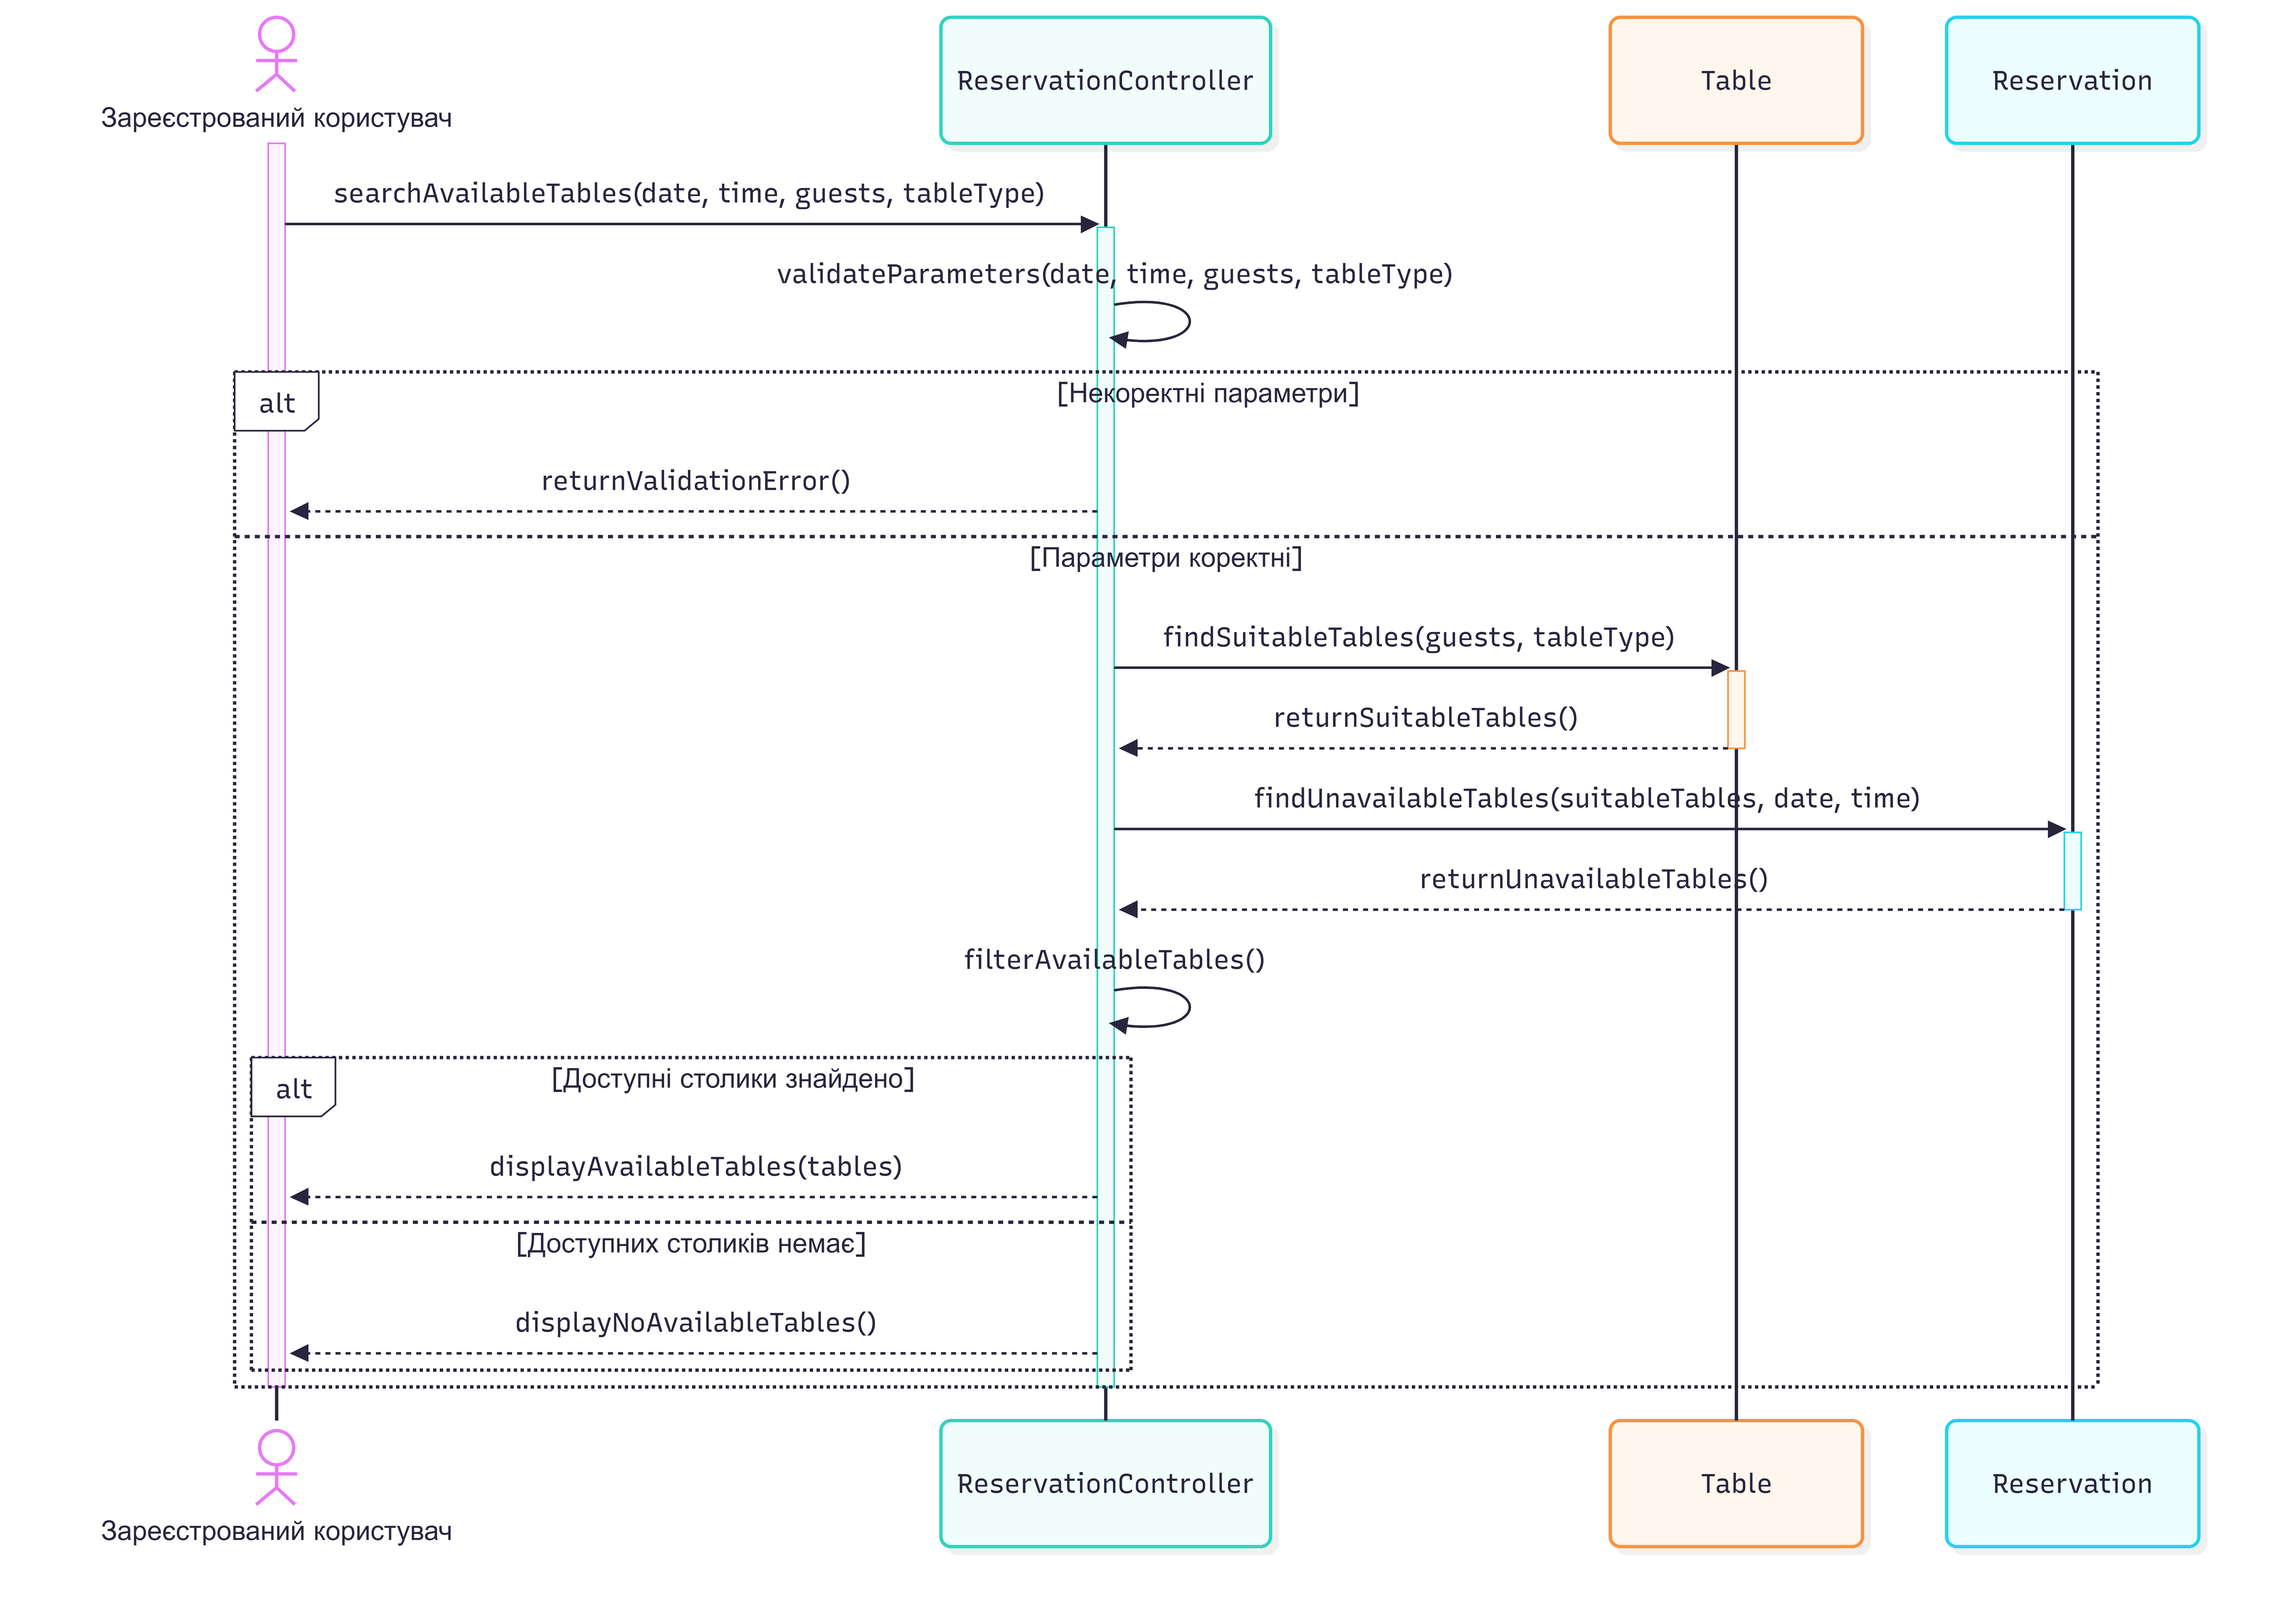
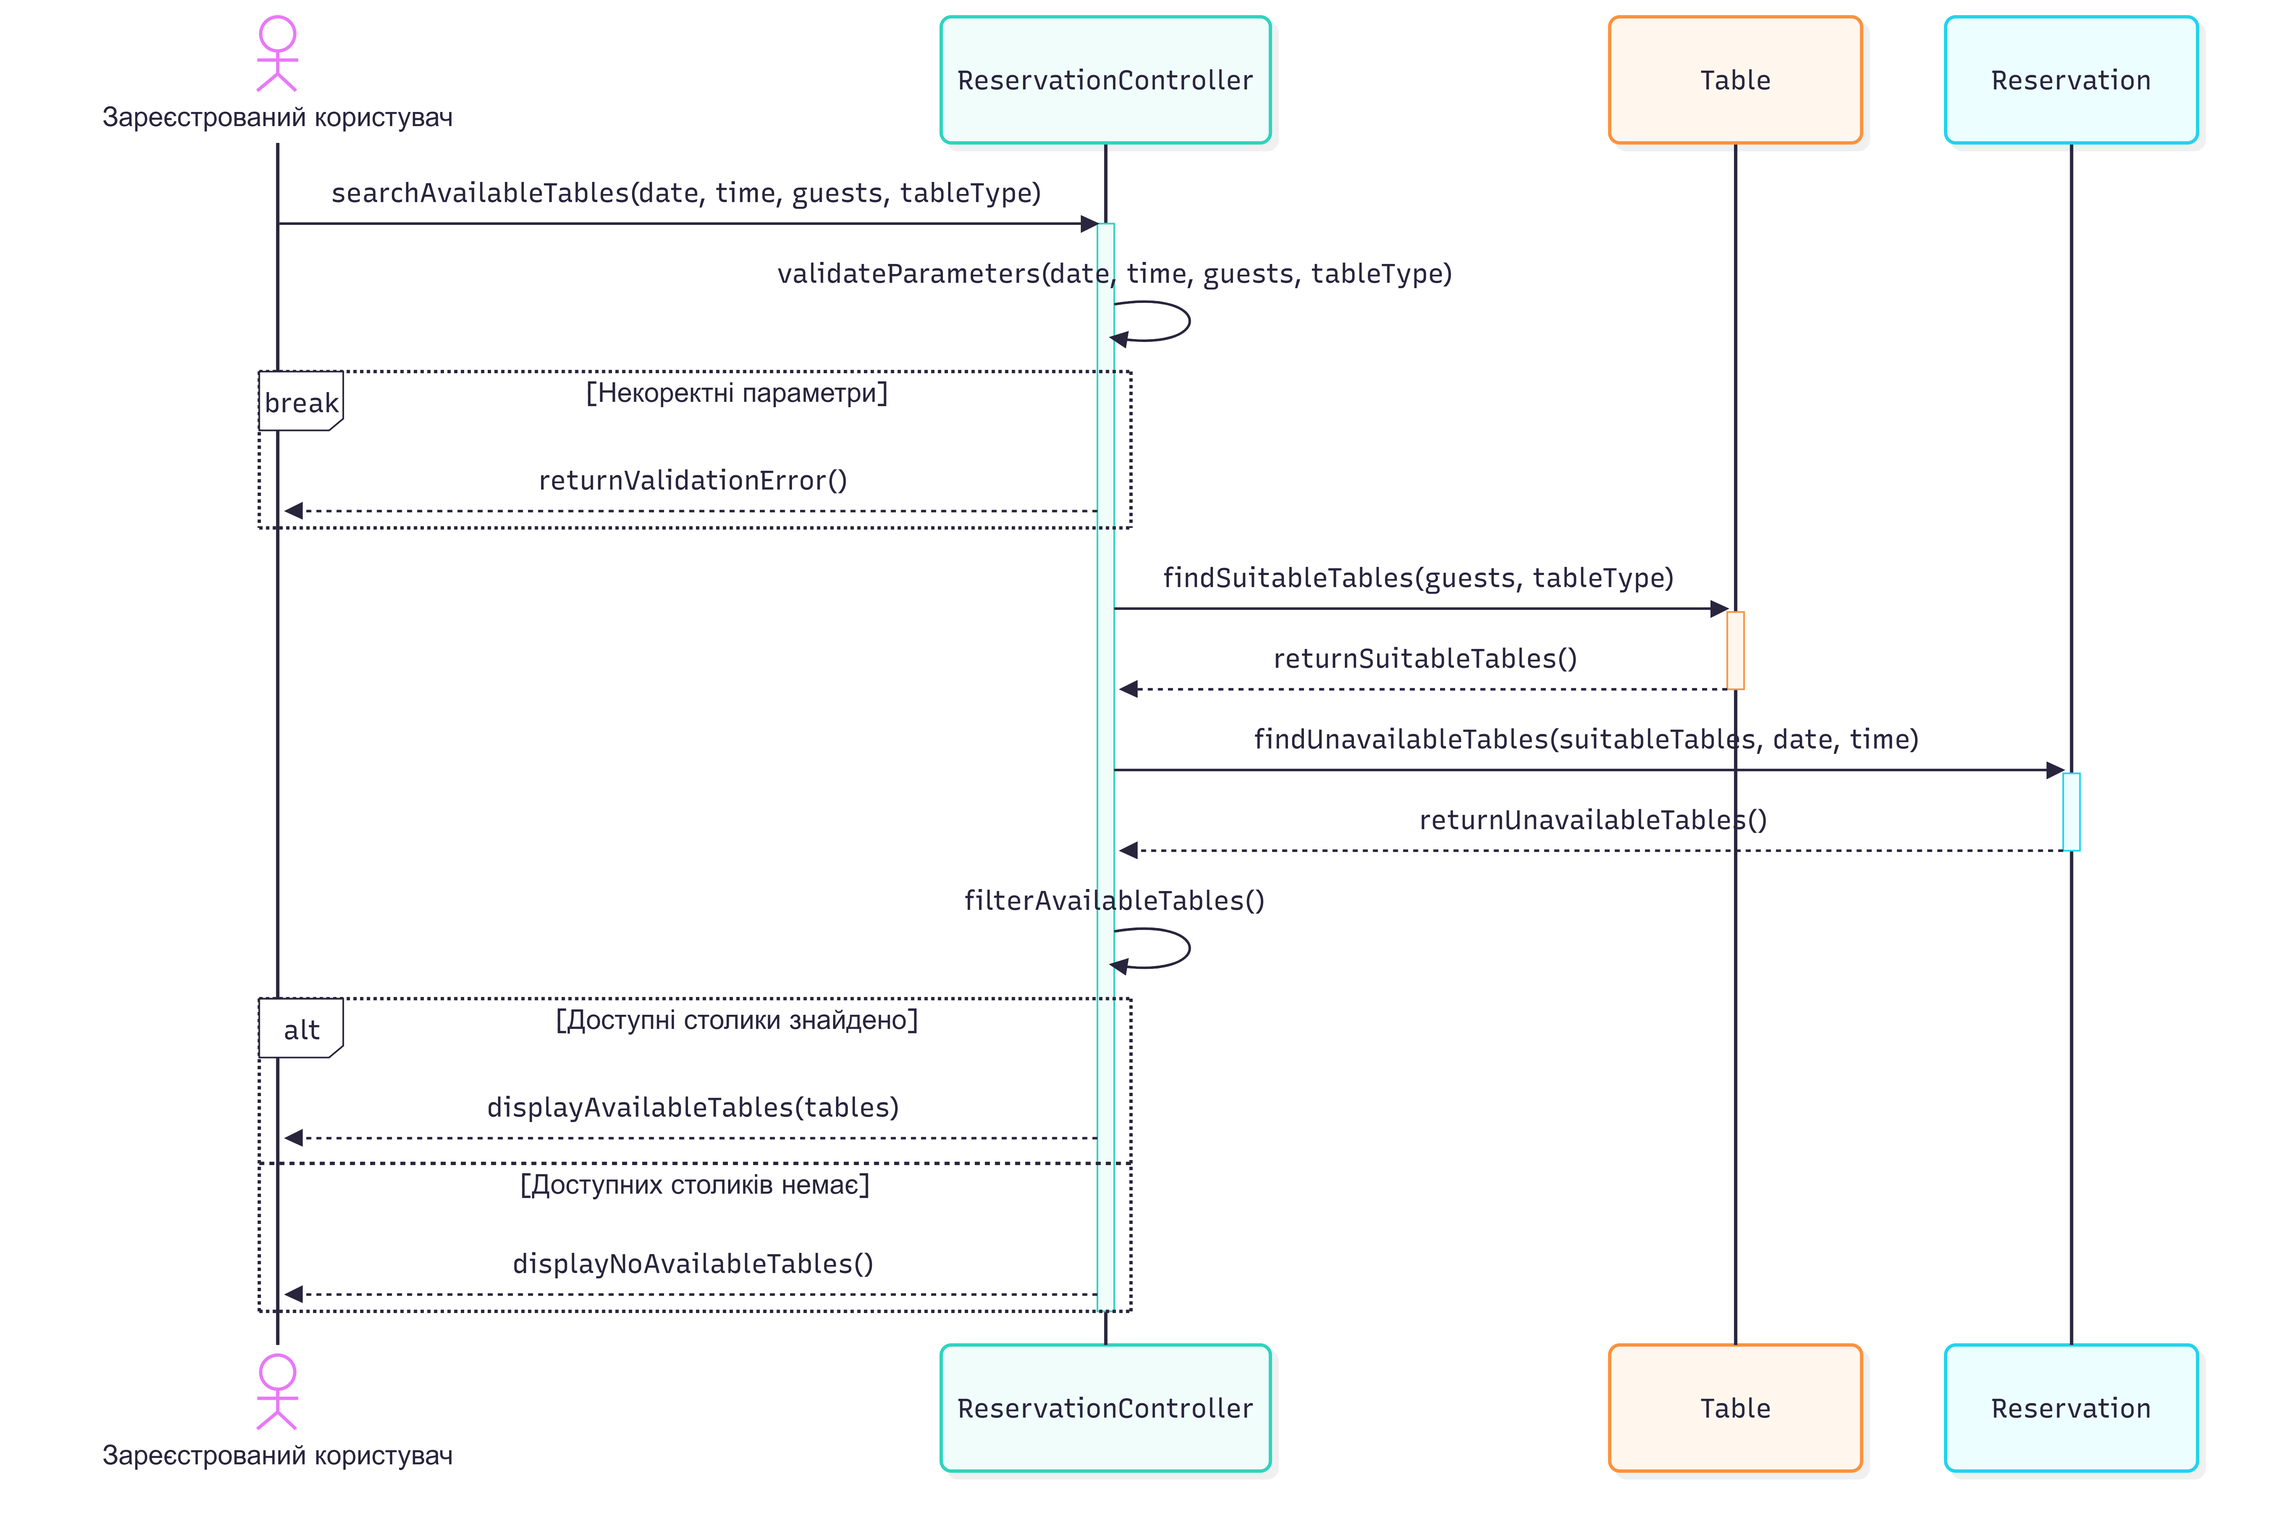
refine first scenario

diff --git a/lab3/scenario-1.md b/lab3/scenario-1.md
@@ -13,7 +13,7 @@
 
 1. Зареєстрований користувач надсилає запит на пошук доступних столиків, указуючи дату, час, кількість гостей і бажаний тип столика.
 2. ReservationController перевіряє коректність отриманих параметрів.
-3. Якщо параметри некоректні, система повертає повідомлення про помилку.
+3. Якщо параметри некоректні, система повертає повідомлення про помилку, після чого сценарій завершується.
 4. Якщо параметри коректні, ReservationController запитує в Table столики, які відповідають вибраному типу та мають достатню місткість для зазначеної кількості гостей.
 5. Table повертає список столиків, що відповідають заданим критеріям.
 6. ReservationController звертається до Reservation, щоб отримати інформацію про бронювання відповідних столиків на вибрані дату й час.
@@ -30,34 +30,32 @@ sequenceDiagram
     participant T as Table
     participant R as Reservation
 
-    activate User
     User->>RC: searchAvailableTables(date, time, guests, tableType)
     activate RC
 
     RC->>RC: validateParameters(date, time, guests, tableType)
 
-    alt Некоректні параметри
+    break Некоректні параметри
         RC-->>User: returnValidationError()
-    else Параметри коректні
-        RC->>T: findSuitableTables(guests, tableType)
-        activate T
-        T-->>RC: returnSuitableTables()
-        deactivate T
+    end
 
-        RC->>R: findUnavailableTables(suitableTables, date, time)
-        activate R
-        R-->>RC: returnUnavailableTables()
-        deactivate R
+    RC->>T: findSuitableTables(guests, tableType)
+    activate T
+    T-->>RC: returnSuitableTables()
+    deactivate T
 
-        RC->>RC: filterAvailableTables()
+    RC->>R: findUnavailableTables(suitableTables, date, time)
+    activate R
+    R-->>RC: returnUnavailableTables()
+    deactivate R
 
-        alt Доступні столики знайдено
-            RC-->>User: displayAvailableTables(tables)
-        else Доступних столиків немає
-            RC-->>User: displayNoAvailableTables()
-        end
+    RC->>RC: filterAvailableTables()
+
+    alt Доступні столики знайдено
+        RC-->>User: displayAvailableTables(tables)
+    else Доступних столиків немає
+        RC-->>User: displayNoAvailableTables()
     end
 
     deactivate RC
-    deactivate User
 ```

diff --git a/lab3/spec.md b/lab3/spec.md
@@ -50,9 +50,10 @@
 
 **Альтернативний потік:**
 
-1. Якщо доступних столиків немає, система повертає порожній результат.
-2. Користувач отримує повідомлення про відсутність доступних столиків.
-3. Система дозволяє змінити дату, час, кількість гостей або тип столика і повторити пошук.
+1. Якщо параметри пошуку некоректні, ReservationController повертає повідомлення про помилку, після чого сценарій завершується.
+2. Якщо доступних столиків немає, система повертає порожній результат.
+3. Користувач отримує повідомлення про відсутність доступних столиків.
+4. Система пропонує змінити параметри пошуку та повторити пошук.
 
 ### Сценарій 2. Успішне бронювання столика
 
